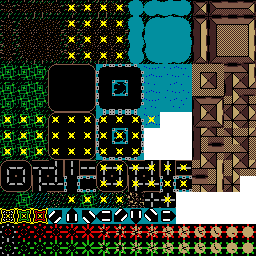
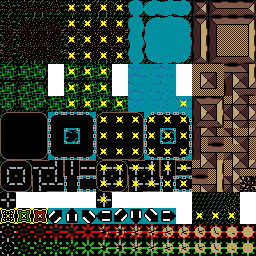
Road shows correct image tiles.

diff --git a/src/jsMain/kotlin/client/ImageTileArray.kt b/src/jsMain/kotlin/client/ImageTileArray.kt
@@ -302,36 +302,36 @@ class ImageTileArray(private val bmap: Bmap, private val owner: Owner) {
             TypeTile.Road -> {
                 when (isLikeBits(x, y) { isRoadLikeTile() }) {
                     0 -> when (isLikeBits(x, y) { isWaterLikeToLandTile() }) {
-                        15 -> ImageTile.Road30
-                        5 -> ImageTile.Road23
-                        10 -> ImageTile.Road21
-                        else -> ImageTile.Road10
+                        5 -> ImageTile.Road10
+                        15 -> ImageTile.Road28
+                        10 -> ImageTile.Road29
+                        else -> ImageTile.Road7
                     }
 
                     1, 4, 5 -> when (
                         getTypeTile(x, y - 1).isWaterLikeToLandTile()
                             .or(getTypeTile(x, y + 1).isWaterLikeToLandTile().shl(1))
                     ) {
-                        3 -> ImageTile.Road21
-                        else -> ImageTile.Road1
+                        3 -> ImageTile.Road29
+                        else -> ImageTile.Road23
                     }
 
                     2, 8, 10 -> when (
                         getTypeTile(x - 1, y).isWaterLikeToLandTile()
                             .or(getTypeTile(x + 1, y).isWaterLikeToLandTile().shl(1))
                     ) {
-                        3 -> ImageTile.Road23
-                        else -> ImageTile.Road3
+                        3 -> ImageTile.Road10
+                        else -> ImageTile.Road22
                     }
 
                     6 -> when (
                         getTypeTile(x - 1, y).isWaterLikeToLandTile()
                             .or(getTypeTile(x, y + 1).isWaterLikeToLandTile().shl(1))
                     ) {
-                        3 -> ImageTile.Road24
+                        3 -> ImageTile.Road15
                         else -> when (getTypeTile(x + 1, y - 1).isRoadLikeTile()) {
                             1 -> ImageTile.Road12
-                            else -> ImageTile.Road4
+                            else -> ImageTile.Road24
                         }
                     }
 
@@ -339,20 +339,20 @@ class ImageTileArray(private val bmap: Bmap, private val owner: Owner) {
                         getTypeTile(x + 1, y).isWaterLikeToLandTile()
                             .or(getTypeTile(x, y + 1).isWaterLikeToLandTile().shl(1))
                     ) {
-                        3 -> ImageTile.Road25
+                        3 -> ImageTile.Road17
                         else -> when (getTypeTile(x - 1, y - 1).isRoadLikeTile()) {
                             1 -> ImageTile.Road14
-                            else -> ImageTile.Road5
+                            else -> ImageTile.Road25
                         }
                     }
 
                     7 -> when (getTypeTile(x, y + 1).isWaterLikeToLandTile()) {
-                        1 -> ImageTile.Road29
+                        1 -> ImageTile.Road16
                         else -> when (
                             getTypeTile(x - 1, y - 1).isRoadLikeTile()
                                 .or(getTypeTile(x + 1, y - 1).isRoadLikeTile().shl(1))
                         ) {
-                            0 -> ImageTile.Road18
+                            0 -> ImageTile.Road27
                             else -> ImageTile.Road13
                         }
                     }
@@ -361,21 +361,21 @@ class ImageTileArray(private val bmap: Bmap, private val owner: Owner) {
                         getTypeTile(x - 1, y).isWaterLikeToLandTile()
                             .or(getTypeTile(x, y - 1).isWaterLikeToLandTile().shl(1))
                     ) {
-                        3 -> ImageTile.Road20
+                        3 -> ImageTile.Road3
                         else -> when (getTypeTile(x + 1, y + 1).isRoadLikeTile()) {
-                            1 -> ImageTile.Road6
-                            else -> ImageTile.Road0
+                            1 -> ImageTile.Road0
+                            else -> ImageTile.Road18
                         }
                     }
 
                     14 -> when (getTypeTile(x - 1, y).isWaterLikeToLandTile()) {
-                        1 -> ImageTile.Road27
+                        1 -> ImageTile.Road9
                         else -> when (
                             getTypeTile(x + 1, y - 1).isRoadLikeTile()
                                 .or(getTypeTile(x + 1, y + 1).isRoadLikeTile().shl(1))
                         ) {
-                            0 -> ImageTile.Road15
-                            else -> ImageTile.Road9
+                            0 -> ImageTile.Road26
+                            else -> ImageTile.Road6
                         }
                     }
 
@@ -383,45 +383,50 @@ class ImageTileArray(private val bmap: Bmap, private val owner: Owner) {
                         getTypeTile(x, y - 1).isWaterLikeToLandTile()
                             .or(getTypeTile(x + 1, y).isWaterLikeToLandTile().shl(1))
                     ) {
-                        3 -> ImageTile.Road22
+                        3 -> ImageTile.Road5
                         else -> when (getTypeTile(x - 1, y + 1).isRoadLikeTile()) {
-                            1 -> ImageTile.Road8
-                            else -> ImageTile.Road2
+                            1 -> ImageTile.Road2
+                            else -> ImageTile.Road19
                         }
                     }
 
                     13 -> when (getTypeTile(x, y - 1).isWaterLikeToLandTile()) {
-                        1 -> ImageTile.Road26
+                        1 -> ImageTile.Road4
                         else -> when (
                             getTypeTile(x - 1, y + 1).isRoadLikeTile()
                                 .or(getTypeTile(x + 1, y + 1).isRoadLikeTile().shl(1))
                         ) {
-                            0 -> ImageTile.Road17
-                            else -> ImageTile.Road7
+                            0 -> ImageTile.Road20
+                            else -> ImageTile.Road1
                         }
                     }
 
                     11 -> when (getTypeTile(x + 1, y).isWaterLikeToLandTile()) {
-                        1 -> ImageTile.Road28
+                        1 -> ImageTile.Road11
                         else -> when (
                             getTypeTile(x - 1, y - 1).isRoadLikeTile()
                                 .or(getTypeTile(x - 1, y + 1).isRoadLikeTile().shl(1))
                         ) {
-                            0 -> ImageTile.Road16
-                            else -> ImageTile.Road11
+                            0 -> ImageTile.Road21
+                            else -> ImageTile.Road8
                         }
                     }
 
-                    15 -> when (isLikeBits(x, y) { isRoadLikeTile() }) {
-                        0 -> ImageTile.Road19
-                        else -> ImageTile.Road10
+                    15 -> when (
+                        getTypeTile(x - 1, y - 1).isRoadLikeTile()
+                            .or(getTypeTile(x + 1, y - 1).isRoadLikeTile().shl(1))
+                            .or(getTypeTile(x - 1, y + 1).isRoadLikeTile().shl(2))
+                            .or(getTypeTile(x + 1, y + 1).isRoadLikeTile().shl(3))
+                    ) {
+                        0 -> ImageTile.Road30
+                        else -> ImageTile.Road7
                     }
 
                     else -> never()
                 }
             }
 
-            TypeTile.RoadMined -> ImageTile.RoadMined
+            TypeTile.RoadMined -> ImageTile.RoadMined0
             TypeTile.Rubble -> ImageTile.Rubble
             TypeTile.RubbleMined -> ImageTile.RubbleMined
             TypeTile.DamagedWall -> ImageTile.DamagedWall

diff --git a/src/jsMain/kotlin/client/ImageTile.kt b/src/jsMain/kotlin/client/ImageTile.kt
@@ -1,15 +1,16 @@
 package client
 
 enum class ImageTile(val index: Int) {
-    Sea0(tileInd(x = 9, y = 4)),
-    Sea1(tileInd(x = 10, y = 4)),
-    Sea2(tileInd(x = 11, y = 4)),
-    Sea3(tileInd(x = 9, y = 5)),
-    Sea4(tileInd(x = 10, y = 5)),
-    Sea5(tileInd(x = 11, y = 5)),
-    Sea6(tileInd(x = 9, y = 6)),
-    Sea7(tileInd(x = 10, y = 6)),
-    Sea8(tileInd(x = 11, y = 6)),
+    Sea0(tileInd(x = 8, y = 4)),
+    Sea1(tileInd(x = 9, y = 4)),
+    Sea2(tileInd(x = 10, y = 4)),
+    Sea3(tileInd(x = 8, y = 5)),
+    Sea4(tileInd(x = 9, y = 5)),
+    Sea5(tileInd(x = 10, y = 5)),
+    Sea6(tileInd(x = 8, y = 6)),
+    Sea7(tileInd(x = 9, y = 6)),
+    Sea8(tileInd(x = 10, y = 6)),
+    SeaMined(tileInd(x = 11, y = 6)),
     Boat0(tileInd(x = 3, y = 13)),
     Boat1(tileInd(x = 4, y = 13)),
     Boat2(tileInd(x = 5, y = 13)),
@@ -81,7 +82,7 @@ enum class ImageTile(val index: Int) {
     River13(tileInd(x = 9, y = 3)),
     River14(tileInd(x = 10, y = 3)),
     River15(tileInd(x = 11, y = 3)),
-    Swamp(tileInd(x = 2, y = 12)),
+    Swamp(tileInd(x = 13, y = 12)),
     Crater0(tileInd(x = 0, y = 0)),
     Crater1(tileInd(x = 1, y = 0)),
     Crater2(tileInd(x = 2, y = 0)),
@@ -114,37 +115,68 @@ enum class ImageTile(val index: Int) {
     CraterMined13(tileInd(x = 5, y = 3)),
     CraterMined14(tileInd(x = 6, y = 3)),
     CraterMined15(tileInd(x = 7, y = 3)),
-    Road0(tileInd(x = 4, y = 5)),
-    Road1(tileInd(x = 4, y = 5)),
-    Road2(tileInd(x = 4, y = 5)),
-    Road3(tileInd(x = 4, y = 5)),
-    Road4(tileInd(x = 4, y = 5)),
-    Road5(tileInd(x = 4, y = 5)),
-    Road6(tileInd(x = 4, y = 5)),
-    Road7(tileInd(x = 4, y = 5)),
-    Road8(tileInd(x = 4, y = 5)),
-    Road9(tileInd(x = 4, y = 5)),
-    Road10(tileInd(x = 4, y = 5)),
-    Road11(tileInd(x = 4, y = 5)),
-    Road12(tileInd(x = 4, y = 5)),
-    Road13(tileInd(x = 4, y = 5)),
-    Road14(tileInd(x = 4, y = 5)),
-    Road15(tileInd(x = 4, y = 5)),
-    Road16(tileInd(x = 4, y = 5)),
-    Road17(tileInd(x = 4, y = 5)),
-    Road18(tileInd(x = 4, y = 5)),
-    Road19(tileInd(x = 4, y = 5)),
-    Road20(tileInd(x = 4, y = 5)),
-    Road21(tileInd(x = 4, y = 5)),
-    Road22(tileInd(x = 4, y = 5)),
-    Road23(tileInd(x = 4, y = 5)),
-    Road24(tileInd(x = 4, y = 5)),
-    Road25(tileInd(x = 4, y = 5)),
-    Road26(tileInd(x = 4, y = 5)),
-    Road27(tileInd(x = 4, y = 5)),
-    Road28(tileInd(x = 4, y = 5)),
-    Road29(tileInd(x = 4, y = 5)),
-    Road30(tileInd(x = 4, y = 5)),
+    Road0(tileInd(x = 0, y = 7)),
+    Road1(tileInd(x = 1, y = 7)),
+    Road2(tileInd(x = 2, y = 7)),
+    Road3(tileInd(x = 3, y = 7)),
+    Road4(tileInd(x = 4, y = 7)),
+    Road5(tileInd(x = 5, y = 7)),
+    Road6(tileInd(x = 0, y = 8)),
+    Road7(tileInd(x = 1, y = 8)),
+    Road8(tileInd(x = 2, y = 8)),
+    Road9(tileInd(x = 3, y = 8)),
+    Road10(tileInd(x = 4, y = 8)),
+    Road11(tileInd(x = 5, y = 8)),
+    Road12(tileInd(x = 0, y = 9)),
+    Road13(tileInd(x = 1, y = 9)),
+    Road14(tileInd(x = 2, y = 9)),
+    Road15(tileInd(x = 3, y = 9)),
+    Road16(tileInd(x = 4, y = 9)),
+    Road17(tileInd(x = 5, y = 9)),
+    Road18(tileInd(x = 0, y = 10)),
+    Road19(tileInd(x = 1, y = 10)),
+    Road20(tileInd(x = 2, y = 10)),
+    Road21(tileInd(x = 3, y = 10)),
+    Road22(tileInd(x = 4, y = 10)),
+    Road23(tileInd(x = 5, y = 10)),
+    Road24(tileInd(x = 0, y = 11)),
+    Road25(tileInd(x = 1, y = 11)),
+    Road26(tileInd(x = 2, y = 11)),
+    Road27(tileInd(x = 3, y = 11)),
+    Road28(tileInd(x = 4, y = 11)),
+    Road29(tileInd(x = 5, y = 11)),
+    Road30(tileInd(x = 0, y = 12)),
+    RoadMined0(tileInd(x = 6, y = 7)),
+    RoadMined1(tileInd(x = 7, y = 7)),
+    RoadMined2(tileInd(x = 8, y = 7)),
+    RoadMined3(tileInd(x = 9, y = 7)),
+    RoadMined4(tileInd(x = 10, y = 7)),
+    RoadMined5(tileInd(x = 11, y = 7)),
+    RoadMined6(tileInd(x = 6, y = 8)),
+    RoadMined7(tileInd(x = 7, y = 8)),
+    RoadMined8(tileInd(x = 8, y = 8)),
+    RoadMined9(tileInd(x = 9, y = 8)),
+    RoadMined10(tileInd(x = 10, y = 8)),
+    RoadMined11(tileInd(x = 11, y = 8)),
+    RoadMined12(tileInd(x = 6, y = 9)),
+    RoadMined13(tileInd(x = 7, y = 9)),
+    RoadMined14(tileInd(x = 8, y = 9)),
+    RoadMined15(tileInd(x = 9, y = 9)),
+    RoadMined16(tileInd(x = 10, y = 9)),
+    RoadMined17(tileInd(x = 11, y = 9)),
+    RoadMined18(tileInd(x = 6, y = 10)),
+    RoadMined19(tileInd(x = 7, y = 10)),
+    RoadMined20(tileInd(x = 8, y = 10)),
+    RoadMined21(tileInd(x = 9, y = 10)),
+    RoadMined22(tileInd(x = 10, y = 10)),
+    RoadMined23(tileInd(x = 11, y = 10)),
+    RoadMined24(tileInd(x = 6, y = 11)),
+    RoadMined25(tileInd(x = 7, y = 11)),
+    RoadMined26(tileInd(x = 8, y = 11)),
+    RoadMined27(tileInd(x = 9, y = 11)),
+    RoadMined28(tileInd(x = 10, y = 11)),
+    RoadMined29(tileInd(x = 11, y = 11)),
+    RoadMined30(tileInd(x = 6, y = 12)),
     Tree0(tileInd(x = 0, y = 4)),
     Tree1(tileInd(x = 1, y = 4)),
     Tree2(tileInd(x = 2, y = 4)),
@@ -154,25 +186,23 @@ enum class ImageTile(val index: Int) {
     Tree6(tileInd(x = 0, y = 6)),
     Tree7(tileInd(x = 1, y = 6)),
     Tree8(tileInd(x = 2, y = 6)),
-    Tree9(tileInd(x = 1, y = 12)),
-    TreeMined0(tileInd(x = 0, y = 7)),
-    TreeMined1(tileInd(x = 1, y = 7)),
-    TreeMined2(tileInd(x = 2, y = 7)),
-    TreeMined3(tileInd(x = 0, y = 8)),
-    TreeMined4(tileInd(x = 1, y = 8)),
-    TreeMined5(tileInd(x = 2, y = 8)),
-    TreeMined6(tileInd(x = 0, y = 9)),
-    TreeMined7(tileInd(x = 1, y = 9)),
-    TreeMined8(tileInd(x = 2, y = 9)),
-    TreeMined9(tileInd(x = 5, y = 12)),
-    Rubble(tileInd(x = 3, y = 12)),
-    Grass(tileInd(x = 0, y = 12)),
-    DamagedWall(tileInd(x = 8, y = 12)),
-    SeaMined(tileInd(x = 9, y = 7)),
-    SwampMined(tileInd(x = 6, y = 12)),
-    RoadMined(tileInd(x = 4, y = 8)),
-    RubbleMined(tileInd(x = 7, y = 12)),
-    GrassMined(tileInd(x = 4, y = 12)),
+    Tree9(tileInd(x = 3, y = 6)),
+    TreeMined0(tileInd(x = 3, y = 4)),
+    TreeMined1(tileInd(x = 4, y = 4)),
+    TreeMined2(tileInd(x = 5, y = 4)),
+    TreeMined3(tileInd(x = 3, y = 5)),
+    TreeMined4(tileInd(x = 4, y = 5)),
+    TreeMined5(tileInd(x = 5, y = 5)),
+    TreeMined6(tileInd(x = 3, y = 6)),
+    TreeMined7(tileInd(x = 4, y = 6)),
+    TreeMined8(tileInd(x = 5, y = 6)),
+    TreeMined9(tileInd(x = 3, y = 6)),
+    Rubble(tileInd(x = 14, y = 12)),
+    Grass(tileInd(x = 12, y = 12)),
+    DamagedWall(tileInd(x = 15, y = 11)),
+    SwampMined(tileInd(x = 13, y = 13)),
+    RubbleMined(tileInd(x = 14, y = 13)),
+    GrassMined(tileInd(x = 12, y = 13)),
     BaseNeutral(tileInd(x = 0, y = 13)),
     BaseFriendly(tileInd(x = 1, y = 13)),
     BaseHostile(tileInd(x = 2, y = 13)),

diff --git a/src/commonMain/kotlin/bmap/BmapReader.kt b/src/commonMain/kotlin/bmap/BmapReader.kt
@@ -14,6 +14,7 @@ import util.pillArmorMax
 import util.pillSpeedMax
 import util.pillsMax
 import util.startsMax
+import kotlin.math.min
 
 const val worldWidth: Int = 256
 const val worldHeight: Int = 256
@@ -333,8 +334,8 @@ class BmapReader(
         offset.assertLessThan(buffer.size)
         val x: UByte = buffer[offset]
         offset++
-        x.assertLessThanOrEqual(max)
-        return x
+        // x.assertLessThanOrEqual(max)
+        return min(x.toInt(), max.toInt()).toUByte()
     }
 
     private fun <T> readMulti(n: Int, read: () -> T): List<T> {

diff --git a/src/jvmMain/kotlin/me/robch/application/ServerModule.kt b/src/jvmMain/kotlin/me/robch/application/ServerModule.kt
@@ -16,7 +16,7 @@ val serverModule = module {
     }
 
     single<Bmap> {
-        File("build/processedResources/jvm/main/maps/Baringi.map")
+        File("build/processedResources/jvm/main/maps/Bob\'s Country Bunker rev. 1.1.map")
             .readBytes()
             .toUByteArray()
             .let { BmapReader(offset = 0, buffer = it) }
